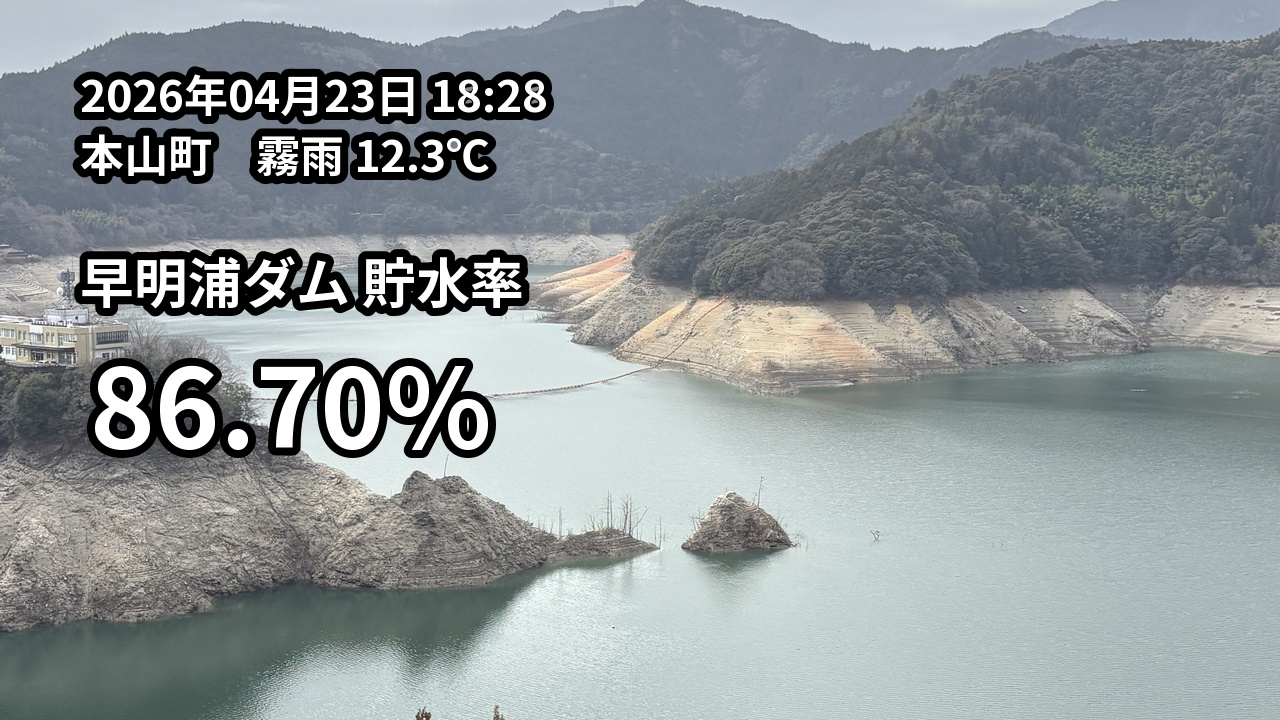
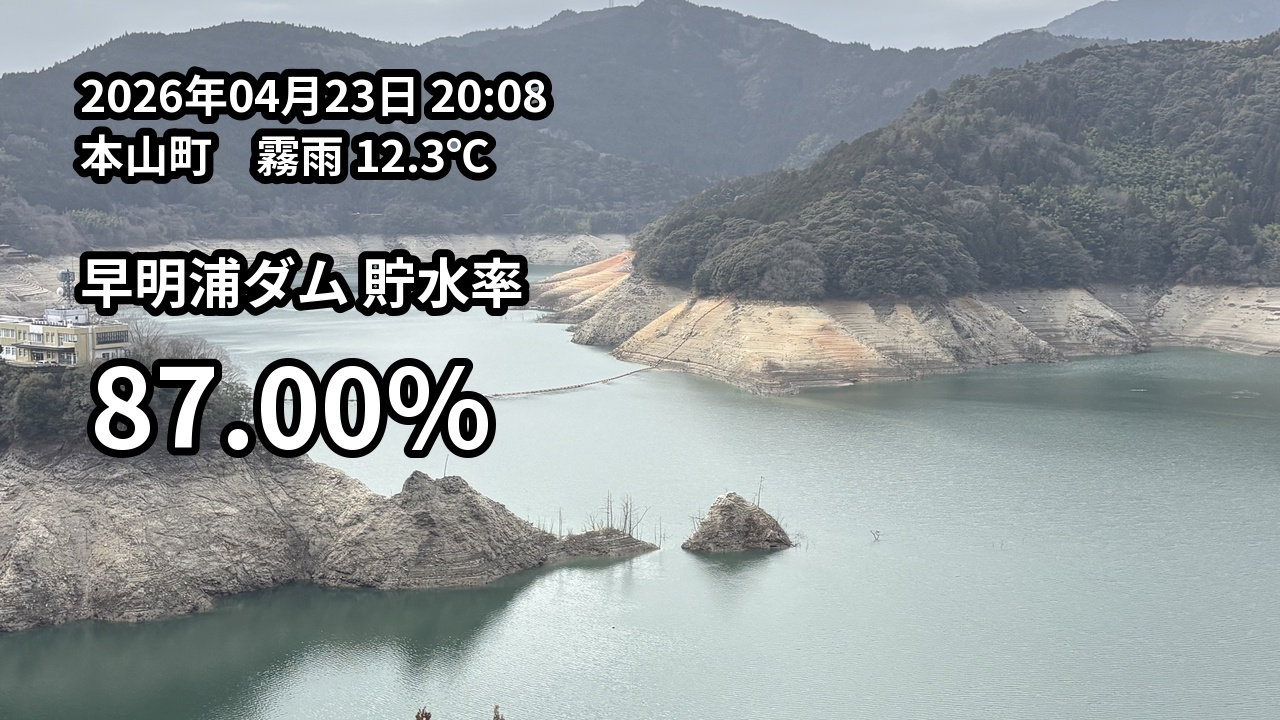
Update daily image

Changed region(s): [[0.0938, 0.4889, 0.25, 0.6417], [0.3125, 0.0917, 0.4062, 0.1528]]

diff --git a/index.html b/index.html
@@ -10,6 +10,6 @@
   </style>
 </head>
 <body>
-  <img src="result.jpg?v=202604231828" alt="早明浦ダム 貯水率" />
+  <img src="result.jpg?v=202604232008" alt="早明浦ダム 貯水率" />
 </body>
 </html>
